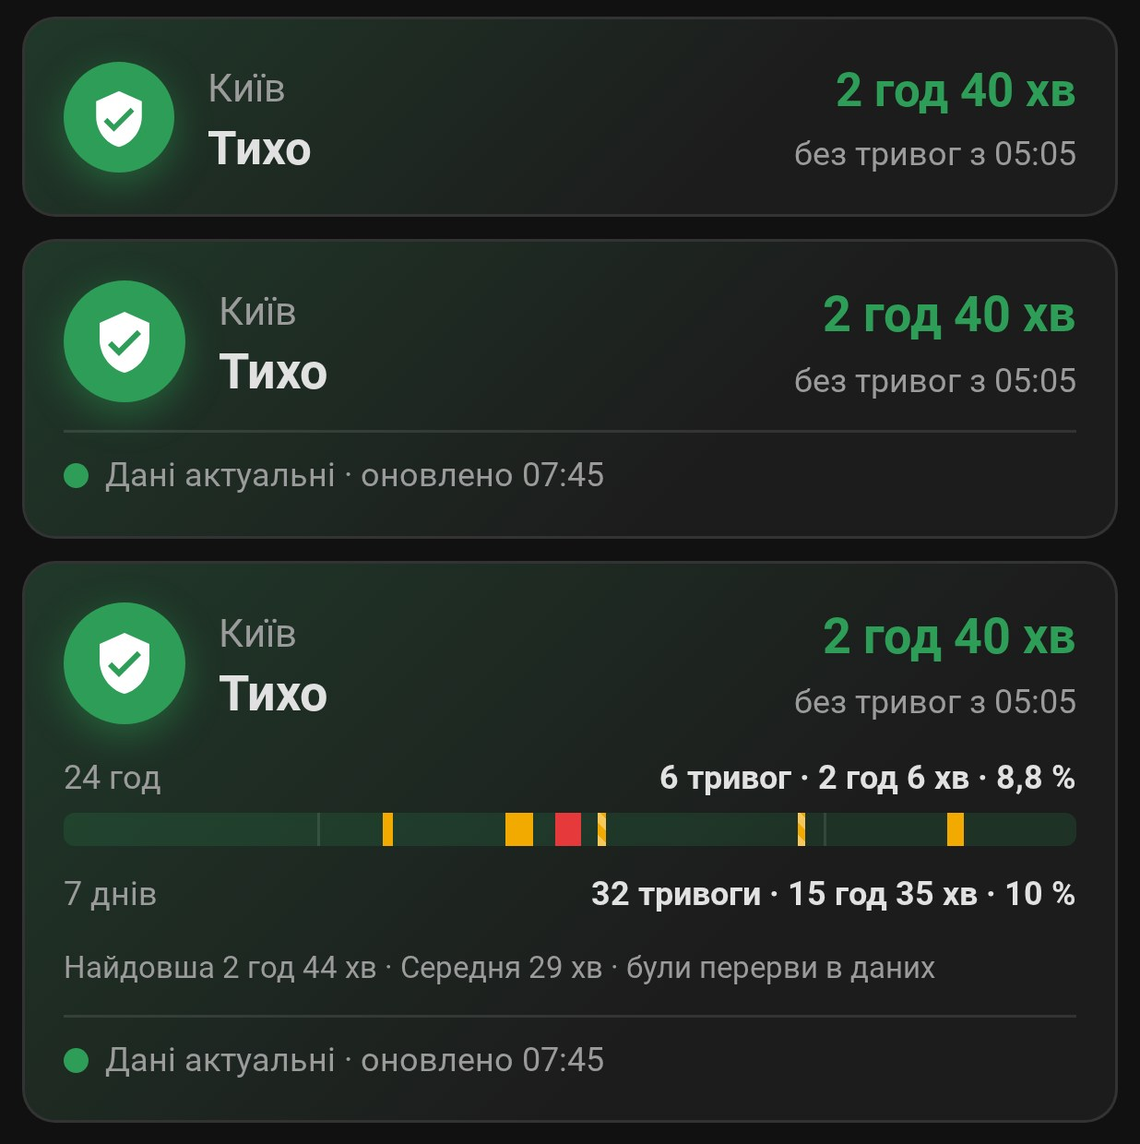
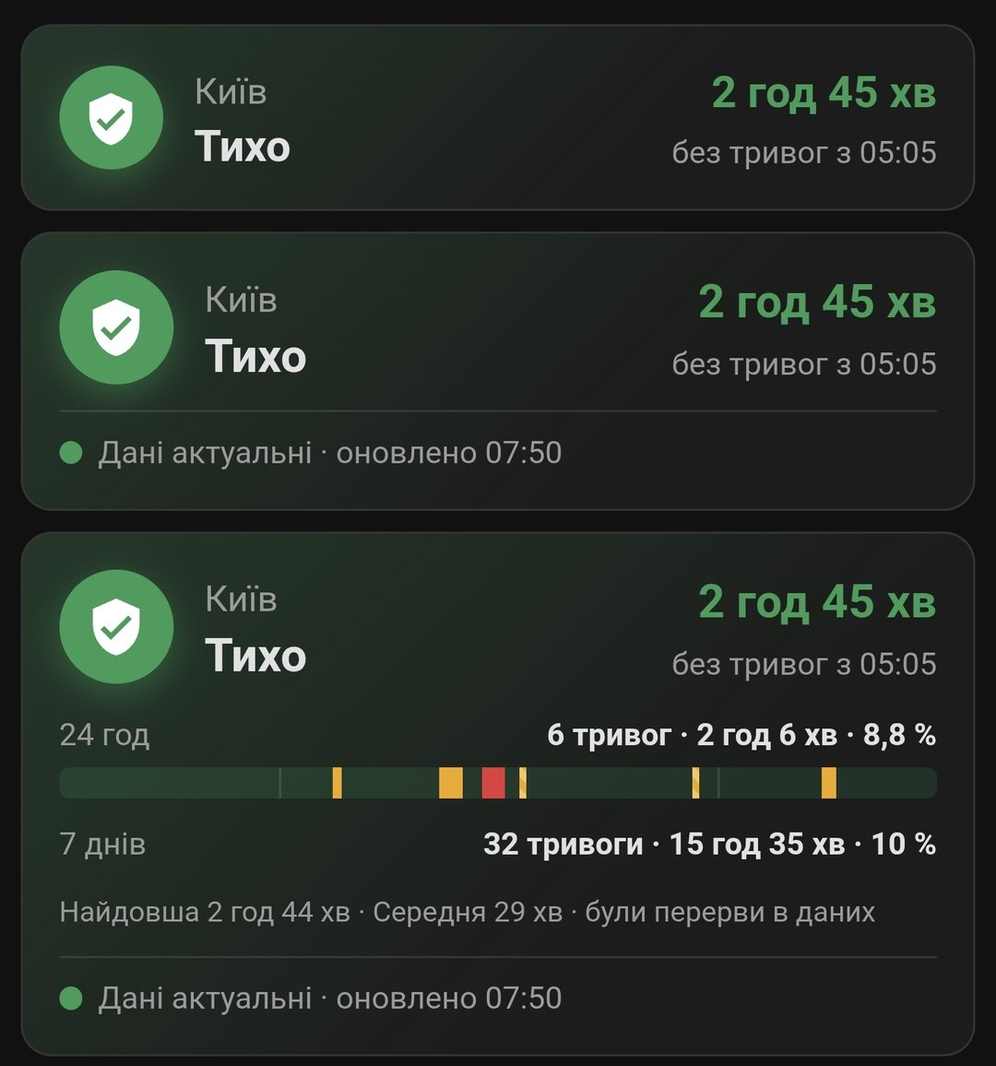
release: 0.10.0
README: installation before the card, then notifications, then the entity and
journal reference; card screenshot from a phone in README and release notes.

diff --git a/tests/test_hardening_rc_2026_09_19.py b/tests/test_hardening_rc_2026_09_19.py
@@ -182,9 +182,7 @@ class ReplyBatchingServer(FakeAlarmServer):
         await ws.prepare(request)
         async for msg in ws:
             d = json.loads(msg.data)
-            if "method" not in d:
-                await ws.send_str(json.dumps({"id": d["id"], "result": {}}))
-            elif d["method"] == 1:
+            if "method" not in d or d["method"] == 1:  # connect, subscribe
                 await ws.send_str(json.dumps({"id": d["id"], "result": {}}))
             elif d["method"] == 6:
                 publication = {"result": {"channel": "updateMap", "data": {"data": PUSH_DATA}}}

diff --git a/README.md b/README.md
@@ -1,7 +1,7 @@
 # Ukraine Alarm Pro
 
 [![HACS Custom](https://img.shields.io/badge/HACS-Custom-orange.svg?style=for-the-badge)](https://github.com/custom-components/hacs)
-![Version](https://img.shields.io/badge/version-0.9.0-blue?style=for-the-badge)
+![Version](https://img.shields.io/badge/version-0.10.0-blue?style=for-the-badge)
 ![Home Assistant](https://img.shields.io/badge/Home%20Assistant-2025.1%2B-41BDF5?style=for-the-badge&logo=home-assistant)
 
 [![Quality Gate](https://sonarcloud.io/api/project_badges/measure?project=ABovsh_ukraine-alarm-pro&metric=alert_status)](https://sonarcloud.io/summary/new_code?id=ABovsh_ukraine-alarm-pro)
@@ -39,6 +39,20 @@
 Порівняння звірено з [кодом Home Assistant 2026.9.2](https://github.com/home-assistant/core/tree/2026.9.2/homeassistant/components/ukraine_alarm)
 і з гілкою розробки `dev` станом на 15.09.2026.
 
+## Встановлення
+
+HACS → користувацький репозиторій → `ABovsh/ukraine-alarm-pro` → встановити → додати
+інтеграцію → обрати регіони. Доступне все дерево, аж до громад.
+
+Змінити перелік регіонів потім: **Налаштування → Пристрої та служби → Ukraine Alarm Pro →
+Налаштувати**. Сутності знятих регіонів видаляються самі.
+
+Інтеграція зберігає копію переліку регіонів і оновлює її раз на добу. Якщо проксі
+недоступний, налаштування показують збережену копію з датою. Обраний регіон, якого
+немає в поточному переліку, лишається у виборі з позначкою ⚠ і не видаляється. Перше
+встановлення без мережі й без збереженої копії неможливе: форма пропонує повторити
+спробу.
+
 ## Картка для панелі
 
 Картка входить до інтеграції, окремо встановлювати її не треба. На знімку — три
@@ -55,22 +69,7 @@
   тривалість, частка часу під тривогою, смуга доби з тривогами, найдовша й середня
   тривога.
 
-Натискання на картку відкриває сенсор тривоги з його історією. Як додати картку — у
-розділі «Встановлення».
-
-## Встановлення
-
-HACS → користувацький репозиторій → `ABovsh/ukraine-alarm-pro` → встановити → додати
-інтеграцію → обрати регіони. Доступне все дерево, аж до громад.
-
-Змінити перелік регіонів потім: **Налаштування → Пристрої та служби → Ukraine Alarm Pro →
-Налаштувати**. Сутності знятих регіонів видаляються самі.
-
-Інтеграція зберігає копію переліку регіонів і оновлює її раз на добу. Якщо проксі
-недоступний, налаштування показують збережену копію з датою. Обраний регіон, якого
-немає в поточному переліку, лишається у виборі з позначкою ⚠ і не видаляється. Перше
-встановлення без мережі й без збереженої копії неможливе: форма пропонує повторити
-спробу.
+Натискання на картку відкриває сенсор тривоги з його історією.
 
 ### Як додати картку
 
@@ -104,6 +103,47 @@ language: uk                        # auto (як у Home Assistant), uk або e
 хвилин після встановлення журнал доповнюється офіційною історією за 90 днів.
 Картка не створює сутностей і записів у базі. Сутності можна перейменовувати: картка
 знаходить їх за регіоном.
+
+## Сповіщення
+
+### Сповіщення з подій
+
+Шаблон [сповіщень з подій](https://my.home-assistant.io/redirect/blueprint_import/?blueprint_url=https%3A%2F%2Fgithub.com%2FABovsh%2Fukraine-alarm-pro%2Fblob%2Fmain%2Fblueprints%2Fautomation%2Fukraine_alarm_pro%2Falert_notify_events.yaml) читає одну сутність `event.uap_<id>_event` і
+надсилає готові повідомлення українською або англійською:
+
+- «м. Київ: повітряна тривога з 14:32. Рівень: червоний. Причина: …»
+- «м. Київ: рівень повітряної тривоги підвищився до червоного.»
+- «м. Київ: відбій. Тривалість за спостереженнями: 1 год 12 хв.»
+- «Дані про тривоги застаріли. Останній відомий стан для м. Київ: тривога.»
+- «Зв'язок відновлено. Поточний стан для м. Київ: тривога триває (повітряна тривога).»
+
+Окремі дії задаються для початку, підвищення рівня або нової загрози, відбою,
+застарілих даних і відновлення зв'язку; порожня дія нічого не надсилає. Перші дані
+після запуску Home Assistant за замовчуванням не надсилаються. Якщо тривога
+закінчилася під час перерви у даних, приходить повідомлення про відновлення зв'язку, а
+не «відбій». У діях доступні `message`, `event_type`, `origin`, `region`, `threat_types`,
+`added_types`, `level`, `reason` і `payload`.
+
+Щоб перевірити дії без тривоги, імпортуйте [тестовий скрипт](https://my.home-assistant.io/redirect/blueprint_import/?blueprint_url=https%3A%2F%2Fgithub.com%2FABovsh%2Fukraine-alarm-pro%2Fblob%2Fmain%2Fblueprints%2Fscript%2Fukraine_alarm_pro%2Ftest_notification.yaml). Він надсилає
+повідомлення з позначкою «ТЕСТ» і не змінює сутностей тривоги, подій чи журналу.
+
+### Попередній шаблон на сенсорах
+
+Для нових автоматизацій використовуйте сповіщення з подій. [Шаблон на сенсорах](https://my.home-assistant.io/redirect/blueprint_import/?blueprint_url=https%3A%2F%2Fgithub.com%2FABovsh%2Fukraine-alarm-pro%2Fblob%2Fmain%2Fblueprints%2Fautomation%2Fukraine_alarm_pro%2Falert_notify.yaml)
+лишається для вже створених автоматизацій: дія на початок тривоги, дія на відбій і
+необов'язкова дія на перехід рівня з жовтого в червоний. Він не спрацьовує після
+перезапуску Home Assistant посеред тривоги і нічого не надсилає, поки дані застарілі.
+
+Якщо пишете автоматизацію на сенсорах вручну, додайте ту саму умову:
+
+```yaml
+condition:
+  - condition: state
+    entity_id: binary_sensor.uap_data_stale
+    state: "off"
+```
+
+Імпортовані шаблони оновлюються окремо: HACS встановлює лише інтеграцію.
 
 ## Сутності
 
@@ -176,47 +216,6 @@ language: uk                        # auto (як у Home Assistant), uk або e
 `added_types`, `removed_types`, `had_gap`, а також `observed_active_since` і
 `active_since_known` — коли інтеграція вперше побачила поточну тривогу і чи це був її
 справжній початок.
-
-## Сповіщення
-
-### Сповіщення з подій
-
-Шаблон [сповіщень з подій](https://my.home-assistant.io/redirect/blueprint_import/?blueprint_url=https%3A%2F%2Fgithub.com%2FABovsh%2Fukraine-alarm-pro%2Fblob%2Fmain%2Fblueprints%2Fautomation%2Fukraine_alarm_pro%2Falert_notify_events.yaml) читає одну сутність `event.uap_<id>_event` і
-надсилає готові повідомлення українською або англійською:
-
-- «м. Київ: повітряна тривога з 14:32. Рівень: червоний. Причина: …»
-- «м. Київ: рівень повітряної тривоги підвищився до червоного.»
-- «м. Київ: відбій. Тривалість за спостереженнями: 1 год 12 хв.»
-- «Дані про тривоги застаріли. Останній відомий стан для м. Київ: тривога.»
-- «Зв'язок відновлено. Поточний стан для м. Київ: тривога триває (повітряна тривога).»
-
-Окремі дії задаються для початку, підвищення рівня або нової загрози, відбою,
-застарілих даних і відновлення зв'язку; порожня дія нічого не надсилає. Перші дані
-після запуску Home Assistant за замовчуванням не надсилаються. Якщо тривога
-закінчилася під час перерви у даних, приходить повідомлення про відновлення зв'язку, а
-не «відбій». У діях доступні `message`, `event_type`, `origin`, `region`, `threat_types`,
-`added_types`, `level`, `reason` і `payload`.
-
-Щоб перевірити дії без тривоги, імпортуйте [тестовий скрипт](https://my.home-assistant.io/redirect/blueprint_import/?blueprint_url=https%3A%2F%2Fgithub.com%2FABovsh%2Fukraine-alarm-pro%2Fblob%2Fmain%2Fblueprints%2Fscript%2Fukraine_alarm_pro%2Ftest_notification.yaml). Він надсилає
-повідомлення з позначкою «ТЕСТ» і не змінює сутностей тривоги, подій чи журналу.
-
-### Попередній шаблон на сенсорах
-
-Для нових автоматизацій використовуйте сповіщення з подій. [Шаблон на сенсорах](https://my.home-assistant.io/redirect/blueprint_import/?blueprint_url=https%3A%2F%2Fgithub.com%2FABovsh%2Fukraine-alarm-pro%2Fblob%2Fmain%2Fblueprints%2Fautomation%2Fukraine_alarm_pro%2Falert_notify.yaml)
-лишається для вже створених автоматизацій: дія на початок тривоги, дія на відбій і
-необов'язкова дія на перехід рівня з жовтого в червоний. Він не спрацьовує після
-перезапуску Home Assistant посеред тривоги і нічого не надсилає, поки дані застарілі.
-
-Якщо пишете автоматизацію на сенсорах вручну, додайте ту саму умову:
-
-```yaml
-condition:
-  - condition: state
-    entity_id: binary_sensor.uap_data_stale
-    state: "off"
-```
-
-Імпортовані шаблони оновлюються окремо: HACS встановлює лише інтеграцію.
 
 ## Журнал тривог
 

diff --git a/README.en.md b/README.en.md
@@ -1,7 +1,7 @@
 # Ukraine Alarm Pro
 
 [![HACS Custom](https://img.shields.io/badge/HACS-Custom-orange.svg?style=for-the-badge)](https://github.com/custom-components/hacs)
-![Version](https://img.shields.io/badge/version-0.9.0-blue?style=for-the-badge)
+![Version](https://img.shields.io/badge/version-0.10.0-blue?style=for-the-badge)
 ![Home Assistant](https://img.shields.io/badge/Home%20Assistant-2025.1%2B-41BDF5?style=for-the-badge&logo=home-assistant)
 
 [![Quality Gate](https://sonarcloud.io/api/project_badges/measure?project=ABovsh_ukraine-alarm-pro&metric=alert_status)](https://sonarcloud.io/summary/new_code?id=ABovsh_ukraine-alarm-pro)
@@ -39,6 +39,20 @@ What this integration has:
 This comparison was checked against [Home Assistant 2026.9.2 source](https://github.com/home-assistant/core/tree/2026.9.2/homeassistant/components/ukraine_alarm)
 and the `dev` branch as of 2026-09-15.
 
+## Installation
+
+HACS → custom repository → `ABovsh/ukraine-alarm-pro` → install → add the integration →
+pick the regions. The whole tree is available, down to hromadas.
+
+To change the regions later: **Settings → Devices & services → Ukraine Alarm Pro →
+Configure**. Entities of removed regions are deleted automatically.
+
+The integration keeps a copy of the region list and refreshes it once a day. If the
+proxy is unavailable, the options show the saved copy with its date. A selected region
+missing from the current list stays selected with a ⚠ mark and is not removed. A first
+installation without network and without a saved copy is not possible: the form offers
+a retry.
+
 ## Dashboard card
 
 The card is part of the integration; there is nothing else to install. The screenshot
@@ -55,22 +69,7 @@ shows its three layouts, top to bottom:
   duration, share of time under alert, a day strip with the alerts, and the longest and
   average alert.
 
-Tapping the card opens the alert sensor with its history. How to add the card is in
-"Installation".
-
-## Installation
-
-HACS → custom repository → `ABovsh/ukraine-alarm-pro` → install → add the integration →
-pick the regions. The whole tree is available, down to hromadas.
-
-To change the regions later: **Settings → Devices & services → Ukraine Alarm Pro →
-Configure**. Entities of removed regions are deleted automatically.
-
-The integration keeps a copy of the region list and refreshes it once a day. If the
-proxy is unavailable, the options show the saved copy with its date. A selected region
-missing from the current list stays selected with a ⚠ mark and is not removed. A first
-installation without network and without a saved copy is not possible: the form offers
-a retry.
+Tapping the card opens the alert sensor with its history.
 
 ### Adding the card
 
@@ -103,6 +102,43 @@ Statistics come from the alert journal (see "Alert history"). A few minutes afte
 installation the journal is filled with 90 days of official history.
 The card creates no entities and no database rows. Entities may be renamed: the card finds
 them by region.
+
+## Notifications
+
+### Notifications from events
+
+The [event notification blueprint](https://my.home-assistant.io/redirect/blueprint_import/?blueprint_url=https%3A%2F%2Fgithub.com%2FABovsh%2Fukraine-alarm-pro%2Fblob%2Fmain%2Fblueprints%2Fautomation%2Fukraine_alarm_pro%2Falert_notify_events.yaml) reads one `event.uap_<id>_event` entity and
+sends ready-made messages in Ukrainian or English, for example
+"м. Київ: air raid alert since 14:32. Level: red. Reason: …" or
+"м. Київ: all clear. Observed duration: 1 h 12 min."
+
+Separate actions cover the start, a raised level or a new threat, the all clear, stale
+data and restored data; an empty action sends nothing. The first data after a Home
+Assistant start is silent by default. If an alert ended during a data gap, a
+connection-restored message is sent, not an all clear. Actions can use `message`,
+`event_type`, `origin`, `region`, `threat_types`, `added_types`, `level`, `reason` and
+`payload`.
+
+To check the actions without an alert, import the [test script](https://my.home-assistant.io/redirect/blueprint_import/?blueprint_url=https%3A%2F%2Fgithub.com%2FABovsh%2Fukraine-alarm-pro%2Fblob%2Fmain%2Fblueprints%2Fscript%2Fukraine_alarm_pro%2Ftest_notification.yaml). It sends a
+message marked "TEST" and changes no alert entity, event or history.
+
+### Earlier sensor-based blueprint
+
+Use notifications from events for new automations. The [sensor-based blueprint](https://my.home-assistant.io/redirect/blueprint_import/?blueprint_url=https%3A%2F%2Fgithub.com%2FABovsh%2Fukraine-alarm-pro%2Fblob%2Fmain%2Fblueprints%2Fautomation%2Fukraine_alarm_pro%2Falert_notify.yaml)
+stays for existing automations: an action for the start of an alert, one for the
+all clear and an optional yellow-to-red action. It does not fire when Home Assistant
+restarts during an alert, and sends nothing while the data is stale.
+
+If you write a sensor-based automation by hand, add the same condition:
+
+```yaml
+condition:
+  - condition: state
+    entity_id: binary_sensor.uap_data_stale
+    state: "off"
+```
+
+Imported blueprints are updated separately: HACS installs only the integration.
 
 ## Entities
 
@@ -174,43 +210,6 @@ time), `origin` (`live`, `recovery` or `bootstrap`), `previous` and `current` (`
 `added_types`, `removed_types`, `had_gap`, plus `observed_active_since` and
 `active_since_known` — when the integration first saw the current alert and whether that
 was its real start.
-
-## Notifications
-
-### Notifications from events
-
-The [event notification blueprint](https://my.home-assistant.io/redirect/blueprint_import/?blueprint_url=https%3A%2F%2Fgithub.com%2FABovsh%2Fukraine-alarm-pro%2Fblob%2Fmain%2Fblueprints%2Fautomation%2Fukraine_alarm_pro%2Falert_notify_events.yaml) reads one `event.uap_<id>_event` entity and
-sends ready-made messages in Ukrainian or English, for example
-"м. Київ: air raid alert since 14:32. Level: red. Reason: …" or
-"м. Київ: all clear. Observed duration: 1 h 12 min."
-
-Separate actions cover the start, a raised level or a new threat, the all clear, stale
-data and restored data; an empty action sends nothing. The first data after a Home
-Assistant start is silent by default. If an alert ended during a data gap, a
-connection-restored message is sent, not an all clear. Actions can use `message`,
-`event_type`, `origin`, `region`, `threat_types`, `added_types`, `level`, `reason` and
-`payload`.
-
-To check the actions without an alert, import the [test script](https://my.home-assistant.io/redirect/blueprint_import/?blueprint_url=https%3A%2F%2Fgithub.com%2FABovsh%2Fukraine-alarm-pro%2Fblob%2Fmain%2Fblueprints%2Fscript%2Fukraine_alarm_pro%2Ftest_notification.yaml). It sends a
-message marked "TEST" and changes no alert entity, event or history.
-
-### Earlier sensor-based blueprint
-
-Use notifications from events for new automations. The [sensor-based blueprint](https://my.home-assistant.io/redirect/blueprint_import/?blueprint_url=https%3A%2F%2Fgithub.com%2FABovsh%2Fukraine-alarm-pro%2Fblob%2Fmain%2Fblueprints%2Fautomation%2Fukraine_alarm_pro%2Falert_notify.yaml)
-stays for existing automations: an action for the start of an alert, one for the
-all clear and an optional yellow-to-red action. It does not fire when Home Assistant
-restarts during an alert, and sends nothing while the data is stale.
-
-If you write a sensor-based automation by hand, add the same condition:
-
-```yaml
-condition:
-  - condition: state
-    entity_id: binary_sensor.uap_data_stale
-    state: "off"
-```
-
-Imported blueprints are updated separately: HACS installs only the integration.
 
 ## Alert history
 

diff --git a/CHANGELOG.md b/CHANGELOG.md
@@ -3,7 +3,7 @@
 All notable changes to this project are documented here.
 This project follows [Semantic Versioning](https://semver.org/).
 
-## [Unreleased]
+## [0.10.0] - 2026-09-19
 
 ### ✨ Added
 
@@ -32,6 +32,9 @@ This project follows [Semantic Versioning](https://semver.org/).
   region and status instead of taking its own row, and the quiet card no longer repeats
   «No active alerts» under «All quiet». On a narrow card the statistics wrap instead of
   being cut off.
+
+  <img src="https://github.com/ABovsh/ukraine-alarm-pro/raw/v0.10.0/docs/images/status-card.jpg" alt="The card in 0.10.0: compact, status only and full layouts" width="420">
+
 - **Repairs no longer warns when the integration falls back to polling.** The
   «Alert WebSocket unavailable» issue is removed; polling still delivers alerts. The
   new «Alert data unavailable» issue appears only when neither the WebSocket nor the
